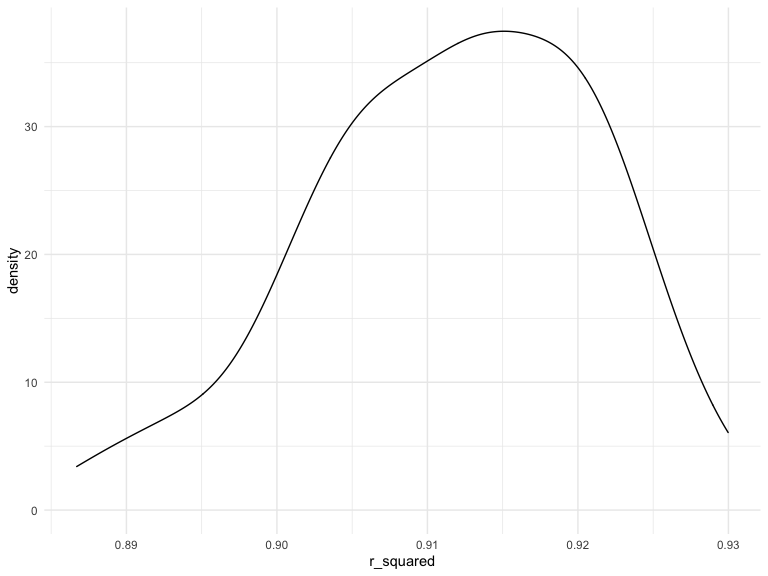
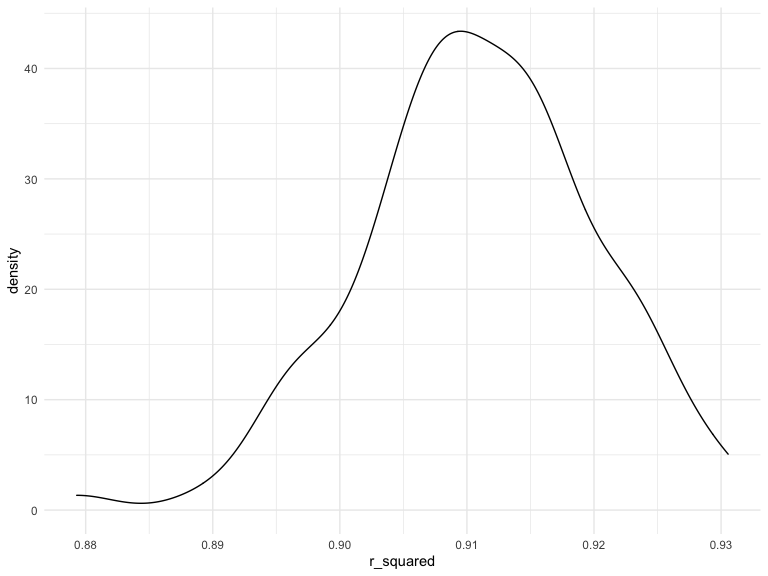
r^2

diff --git a/p8105_hw6_yl4607.md b/p8105_hw6_yl4607.md
@@ -330,7 +330,7 @@ boot_results =
   mutate(log = log(tmin*intercept))
 ```
 
-Distribution plot of \[\hat r^2\]
+Distribution plot of r^2
 
 ``` r
 boot_results %>% 
@@ -340,7 +340,7 @@ boot_results %>%
 
 <img src="p8105_hw6_yl4607_files/figure-gfm/unnamed-chunk-14-1.png" width="90%" />
 
-Distribution plot of \[log(\hat{\beta_0}*\hat{\beta_1}) \]
+Distribution plot of log(beta0\*beta1)
 
 ``` r
 boot_results %>% 
@@ -350,8 +350,7 @@ boot_results %>%
 
 <img src="p8105_hw6_yl4607_files/figure-gfm/unnamed-chunk-15-1.png" width="90%" />
 
-95% Confidence Interval for \[\hat r^2\] and
-\[log(\hat{\beta_0}*\hat{\beta_1}) \]:
+95% Confidence Interval for r^2 and log(beta0\*beta1):
 
 ``` r
 boot_results %>% 
@@ -366,4 +365,4 @@ boot_results %>%
     ## # A tibble: 1 x 4
     ##   r2_ci_lower r2_ci_upper beta_ci_lower beta_ci_upper
     ##         <dbl>       <dbl>         <dbl>         <dbl>
-    ## 1       0.891       0.927          1.96          2.05
+    ## 1       0.894       0.927          1.98          2.06
